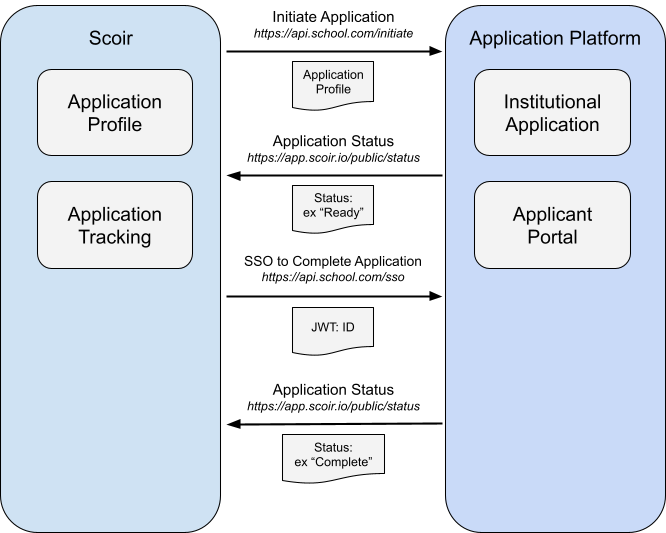
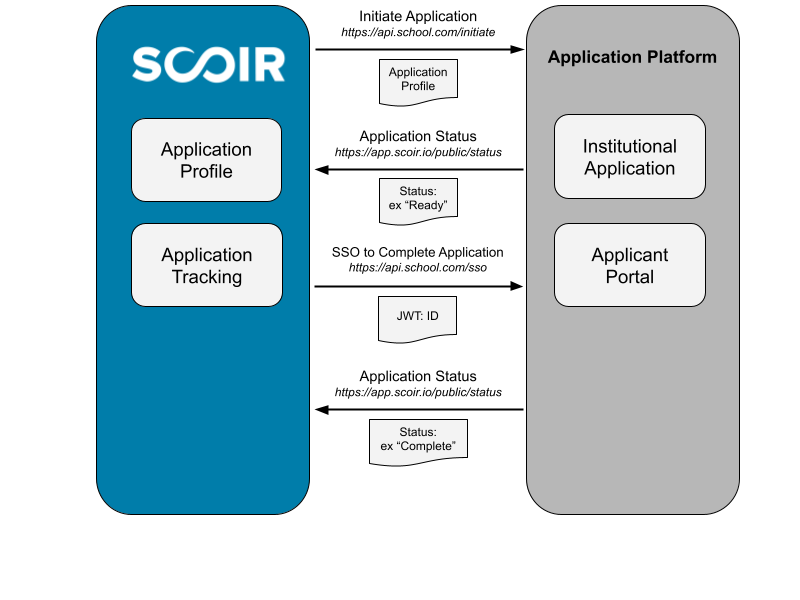
updating themes to align with Scoir branding

diff --git a/index.html b/index.html
@@ -17,7 +17,20 @@
     </style>
   </head>
   <body>
-    <redoc spec-url='scoir-api.yaml'></redoc>
+    <redoc 
+    	spec-url='scoir-api.yaml'
+    	theme='{
+    			"colors": 
+    				{"primary": 
+    					{ "main": "#007DAA"}
+    				}, 
+    			"rightPanel": 
+    				{ 
+    					"backgroundColor": "#007DAA"
+    				}
+    			}'
+    >
+    </redoc>
     <script src="https://cdn.jsdelivr.net/npm/redoc@latest/bundles/redoc.standalone.js"> </script>
   </body>
 </html>
